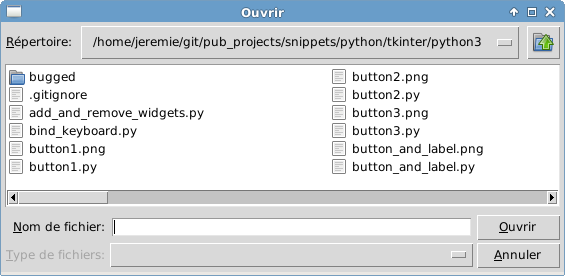
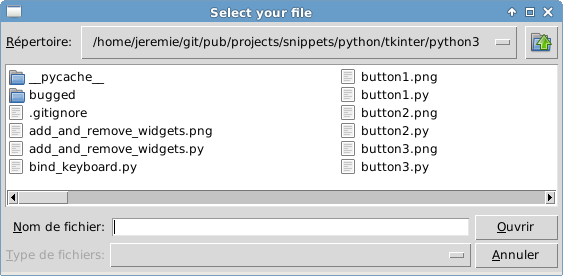
Update a snippet.

diff --git a/python/tkinter/python3/file_dialog_open.py b/python/tkinter/python3/file_dialog_open.py
@@ -24,14 +24,16 @@
 import tkinter as tk
 import tkinter.filedialog
 
+root = tk.Tk()
+
 def open_file():
     # Here fd is a file descriptor (like "fd = open('foo', 'r')")
-    fd = tk.filedialog.askopenfile()
+    fd = tk.filedialog.askopenfile(parent=root, title='Select your file')
+
     print("FILEPATH:", fd.name) # Path of the opened file
     print(fd.read())
-    fd.close()
 
-root = tk.Tk()
+    fd.close()
 
 open_button = tk.Button(root, text="Open", command=open_file)
 open_button.pack()
